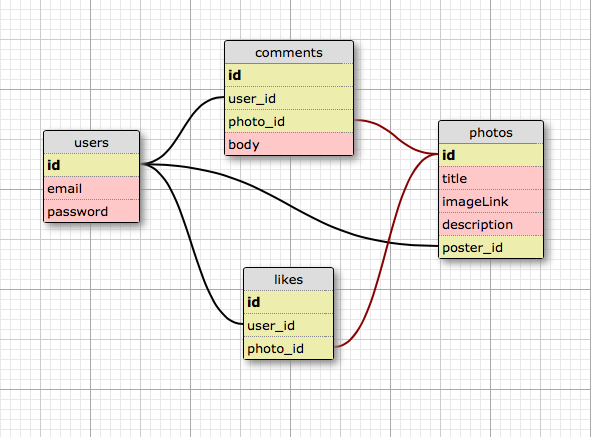
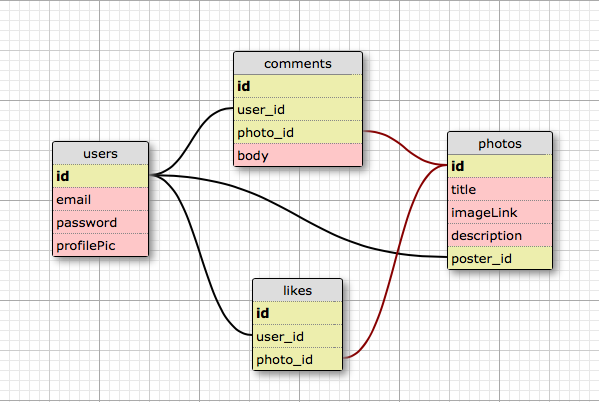
Update User model to have profilePic

diff --git a/db/models/index.js b/db/models/index.js
@@ -15,6 +15,7 @@ const Bookmark = require('./bookmarks.js')(sequelize, Sequelize);
 const BookmarkUsers = require('./bookmarkUsers')(sequelize, Sequelize);
 const Photo = require('./photos.js')(sequelize, Sequelize);
 const Comment = require('./comments.js')(sequelize, Sequelize);
+const Like = require('./likes.js')(sequelize, Sequelize);
 
 // BookmarkUsers join table:
 User.belongsToMany(Bookmark, {
@@ -42,7 +43,7 @@ User.belongsToMany(Photo, {
   foreignKey: 'user_id'
 });
 
-Photo.belongstoMany(User, {
+Photo.belongsToMany(User, {
   through: 'comments',
   foreignKey: 'photo_id'
 });
@@ -53,7 +54,7 @@ User.belongsToMany(Photo, {
   foreignKey: 'user_id'
 });
 
-Photo.belongstoMany(User, {
+Photo.belongsToMany(User, {
   through: 'likes',
   foreignKey: 'photo_id'
 });
@@ -68,3 +69,4 @@ exports.Bookmark = Bookmark;
 exports.BookmarkUsers = BookmarkUsers;
 exports.Photo = Photo;
 exports.Comment = Comment;
+exports.Like = Like;

diff --git a/db/models/users.js b/db/models/users.js
@@ -11,6 +11,9 @@ module.exports = (sequelize, Sequelize) => {
     },
     password: {
       type: Sequelize.STRING
+    },
+    profilePic: {
+      type: Sequelize.STRING
     }
   });
 
